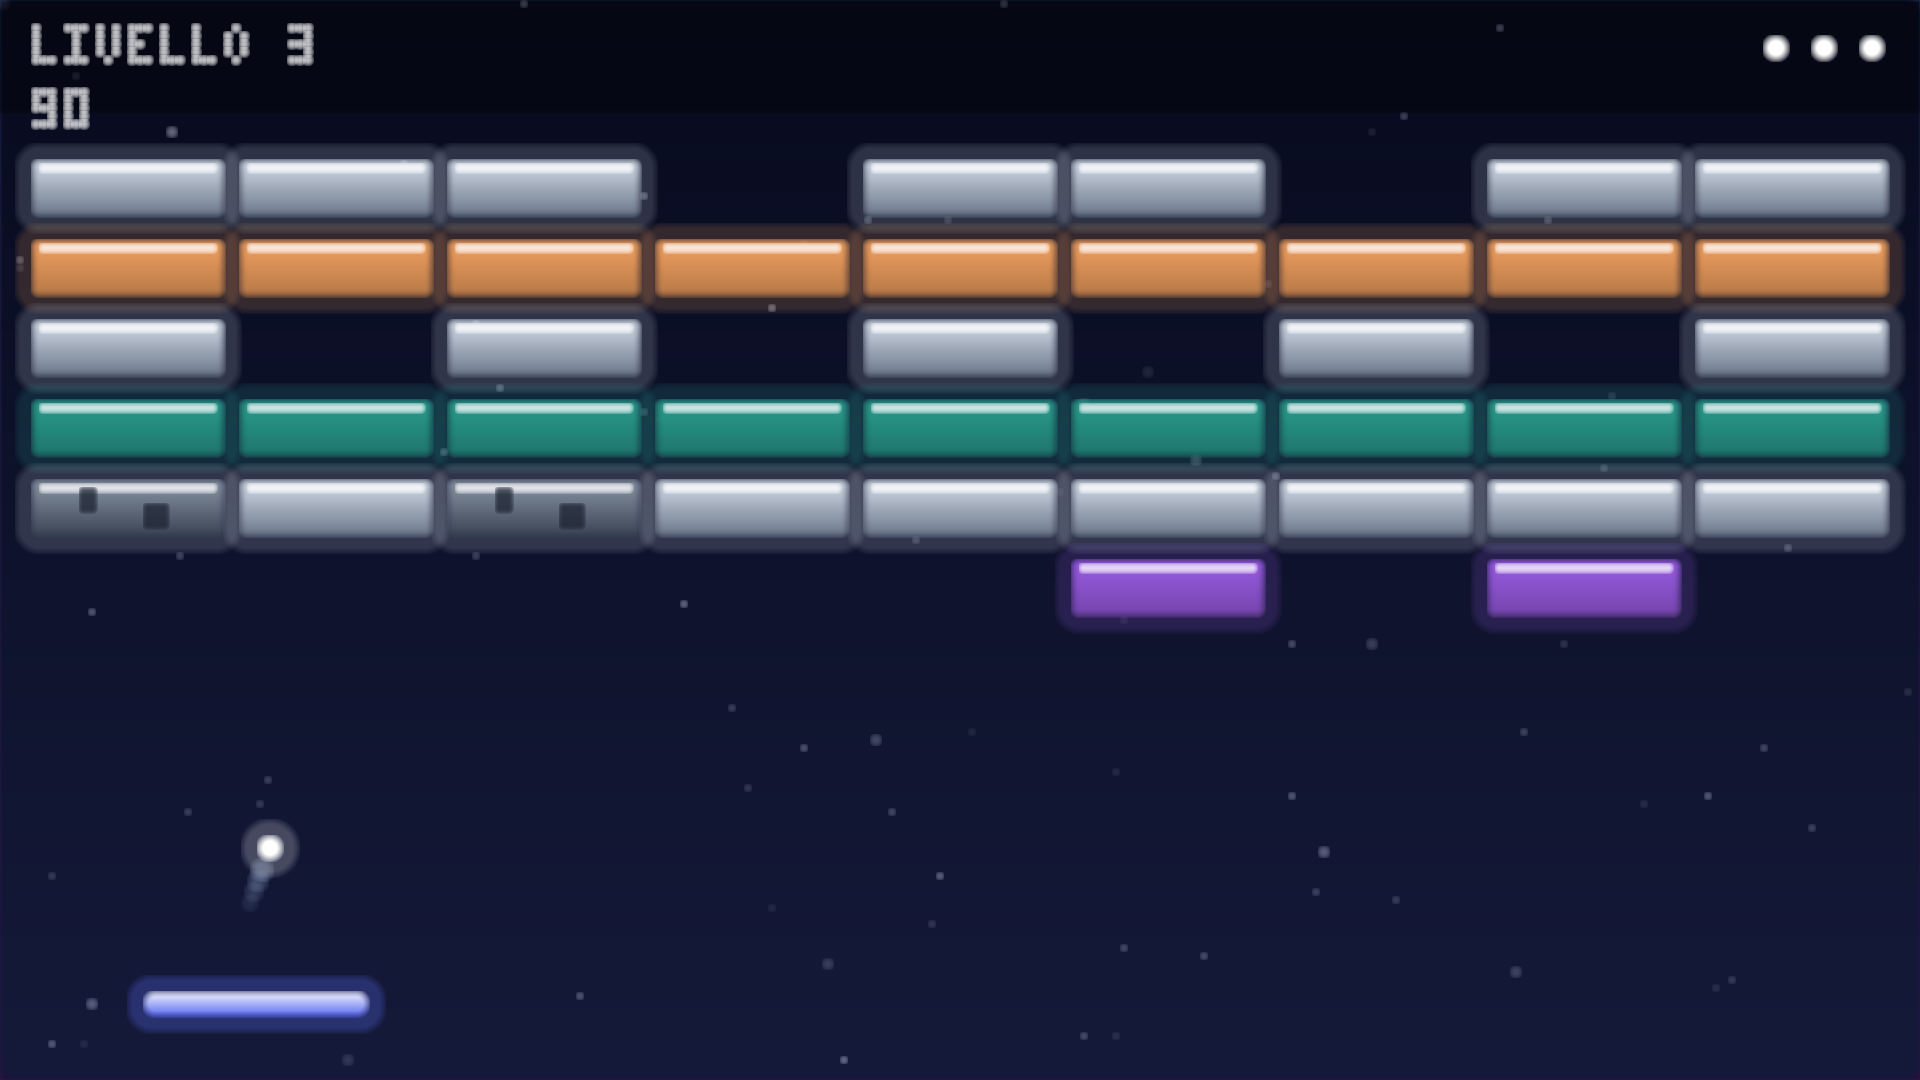
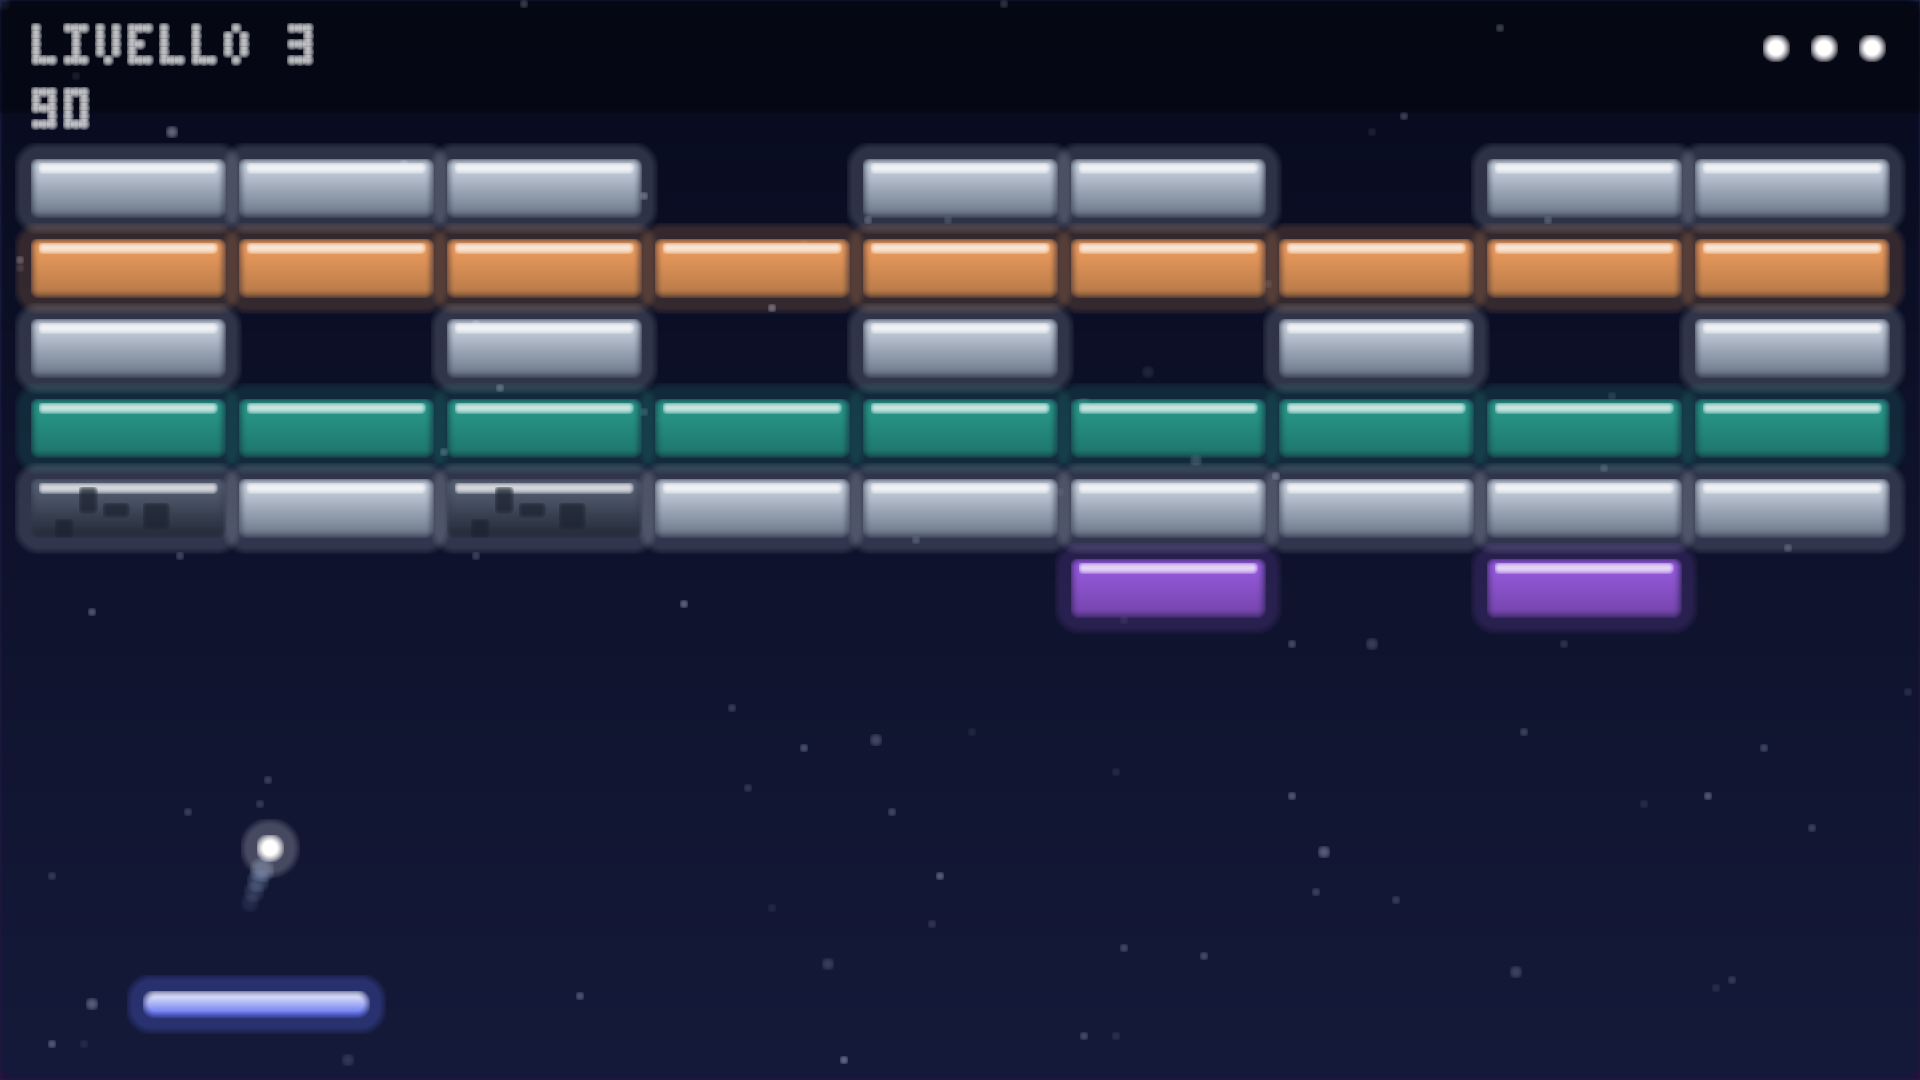
Wilkanoid v2: round 6 fixes (distinct cracked steel, bomb hint only with bombs, win panel fits prompt)
Claude-Session: https://claude.ai/code/session_01AVhvvKEf1rvKF1AvUztBjZ

Changed region(s): [[0.2188, 0.4278, 0.3438, 0.5194], [0.0, 0.4278, 0.125, 0.5194]]

diff --git a/games/wilkanoid/src/render.rs b/games/wilkanoid/src/render.rs
@@ -14,8 +14,8 @@ const FIELD_B: u32 = 0xFF151A3A;
 const ROW: [u32; ROWS] = [0xFFE63946, 0xFFF4A261, 0xFFE9C46A, 0xFF2A9D8F, 0xFF457B9D, 0xFF9B5DE5];
 const STEEL_T: u32 = 0xFFD5DEEA;
 const STEEL_B: u32 = 0xFF6B7789;
-const CRACK_T: u32 = 0xFF8C97A8;
-const CRACK_B: u32 = 0xFF3A4454;
+const CRACK_T: u32 = 0xFF5E687B;
+const CRACK_B: u32 = 0xFF232A38;
 const CRACK_LINE: u32 = 0xFF1C2230;
 const PAD_T: u32 = 0xFFF4F7FF;
 const PAD_B: u32 = 0xFF5B6BF0;
@@ -344,6 +344,8 @@ pub fn render(g: &Game, px: &mut [u32], w: usize, h: usize) {
             if k == CRACKED {
                 c.rr(x + 6.0, y + 1.0, x + 8.0, y + 4.0, 0.5, CRACK_LINE, CRACK_LINE);
                 c.rr(x + 14.0, y + 3.0, x + 17.0, y + 6.0, 0.5, CRACK_LINE, CRACK_LINE);
+                c.rr(x + 9.0, y + 3.0, x + 12.0, y + 4.5, 0.5, CRACK_LINE, CRACK_LINE);
+                c.rr(x + 3.0, y + 5.0, x + 5.0, y + 7.0, 0.5, CRACK_LINE, CRACK_LINE);
             }
         }
     }
@@ -400,7 +402,10 @@ pub fn render(g: &Game, px: &mut [u32], w: usize, h: usize) {
     }
 
     // Tutorial al primo livello: un suggerimento ogni 120 tick, sopra la racchetta.
-    if g.level == 0 && g.tut < TUT_TICKS && matches!(g.phase, Phase::Ready | Phase::Play) {
+    let has_bomb = g.cells.iter().any(|r| r.contains(&BOMB));
+    if g.level == 0 && g.tut < TUT_TICKS && matches!(g.phase, Phase::Ready | Phase::Play)
+        && (((g.tut / 120) as usize) != 3 || has_bomb)
+    {
         let lines: [&[u8]; 5] = [b"A D MUOVI LA RACCHETTA", b"SPAZIO LANCIA LA PALLA", b"ACCIAIO: DUE COLPI", b"ESPLOSIVO: ROMPE I VICINI", b"P PAUSA"];
         let line = lines[((g.tut / 120) as usize).min(lines.len() - 1)];
         c.rr_a(-3.0, 104.0, pw + 3.0, 116.0, 0.5, 0xFF000000, 0xFF000000, 0.4);
@@ -430,7 +435,7 @@ pub fn render(g: &Game, px: &mut [u32], w: usize, h: usize) {
         }
         Phase::Over | Phase::Won => {
             c.rr_a(-1.0, -1.0, pw + 1.0, ph + 1.0, 0.5, 0xFF000000, 0xFF000000, 0.5);
-            c.panel(50.0, 40.0, 190.0, 98.0);
+            c.panel(50.0, 40.0, 190.0, 112.0);
             let title: &[u8] = if g.phase == Phase::Over { b"GAME OVER" } else { b"VITTORIA" };
             c.text_c(title, 52.0, 2.0, TXT);
             c.text_c(b"PUNTI", 78.0, 1.0, TXT);
